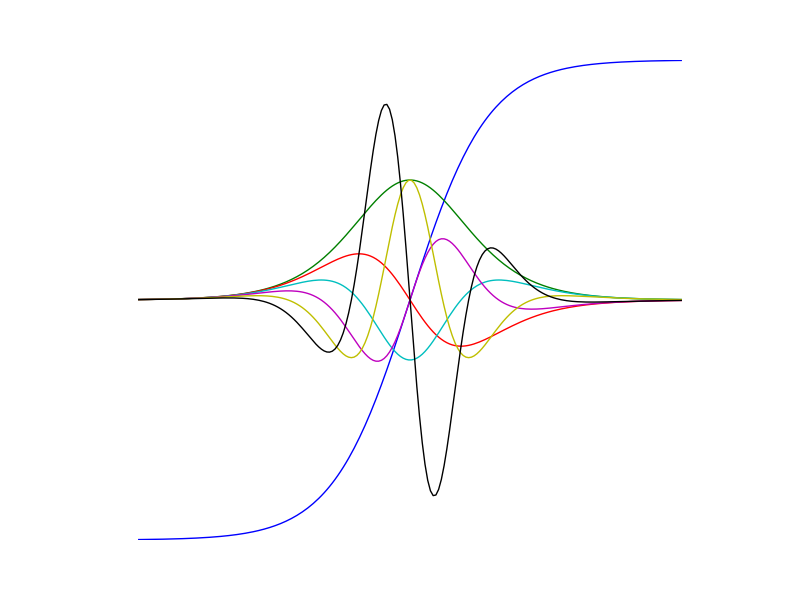
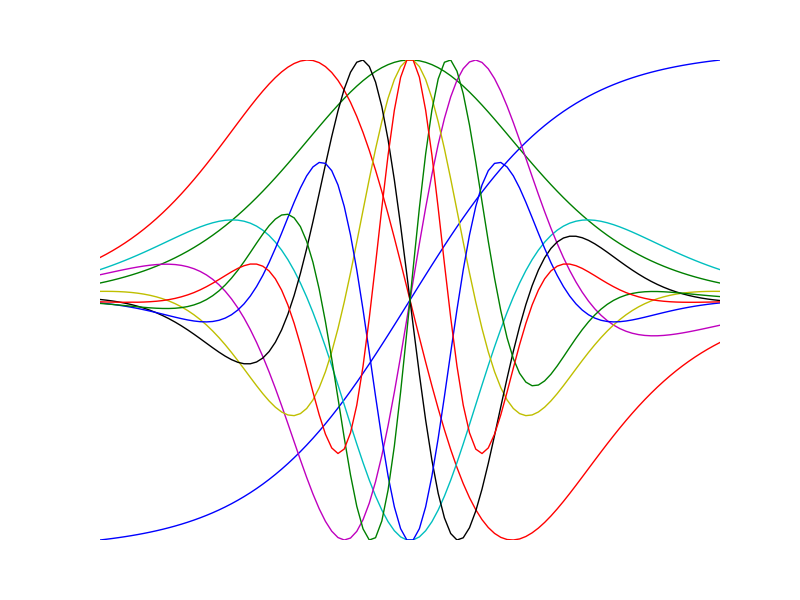
Updated example

diff --git a/examples/fun.py b/examples/fun.py
@@ -2,15 +2,13 @@ import numdifftools as nd
 import numpy as np
 import matplotlib.pyplot as plt
 
-def fun(x):
-    y = np.exp(-x)
-    return (1.0 - y)  / ( 1.0 + y)
-
-x = np.linspace(-7, 7, 200)
-for i in range(0,7):
-    df = nd.Derivative(fun, n=i)
-    plt.plot(x, df(x))
+x = np.linspace(-2, 2, 100)
+for i in range(0, 10):
+    df = nd.Derivative(np.tanh, n=i)
+    y = df(x)
+    plt.plot(x, y/np.abs(y).max())
 
 plt.axis('off')
+plt.axis('tight')
 plt.savefig("fun.png")
 plt.clf()

diff --git a/README.rst b/README.rst
@@ -44,6 +44,20 @@ that are implemented as Python programs.
 Getting Started
 ---------------
 
+Visualize high order derivatives of the tanh function
+
+    >>> import matplotlib.pyplot as plt
+    >>> x = np.linspace(-2, 2, 100)
+    >>> for i in range(10):
+    ...    df = Derivative(np.tanh, n=i)
+    ...    y = df(x)
+    ...    plt.plot(x, y/np.abs(y).max())
+    >>> plt.show()
+
+.. image:: ./examples/fun.png
+    :target: ./examples/fun.py
+
+
 Compute 1'st and 2'nd derivative of exp(x), at x == 1::
 
     >>> import numpy as np
@@ -97,23 +111,6 @@ Compute gradient of sum(x**2)::
     >>> dfun = nda.Gradient(fun)
     >>> dfun([1,2,3])
     array([ 2.,  4.,  6.])
-
-
-Visualize high order derivatives of a userdefined function
-
-    >>> import matplotlib.pyplot as plt
-    >>> def fun(x):
-    ...    y = np.exp(-x)
-    ...    return (1.0 - y)  / ( 1.0 + y)
-
-    >>> x = np.linspace(-7, 7, 200)
-    >>> for i in range(7):
-    ...    df = Derivative(fun, n=i)
-    ...    plt.plot(x, df(x))
-    >>> plt.show()
-
-.. image:: ./examples/fun.png
-    :target: ./examples/fun.py
 
 
 See also
